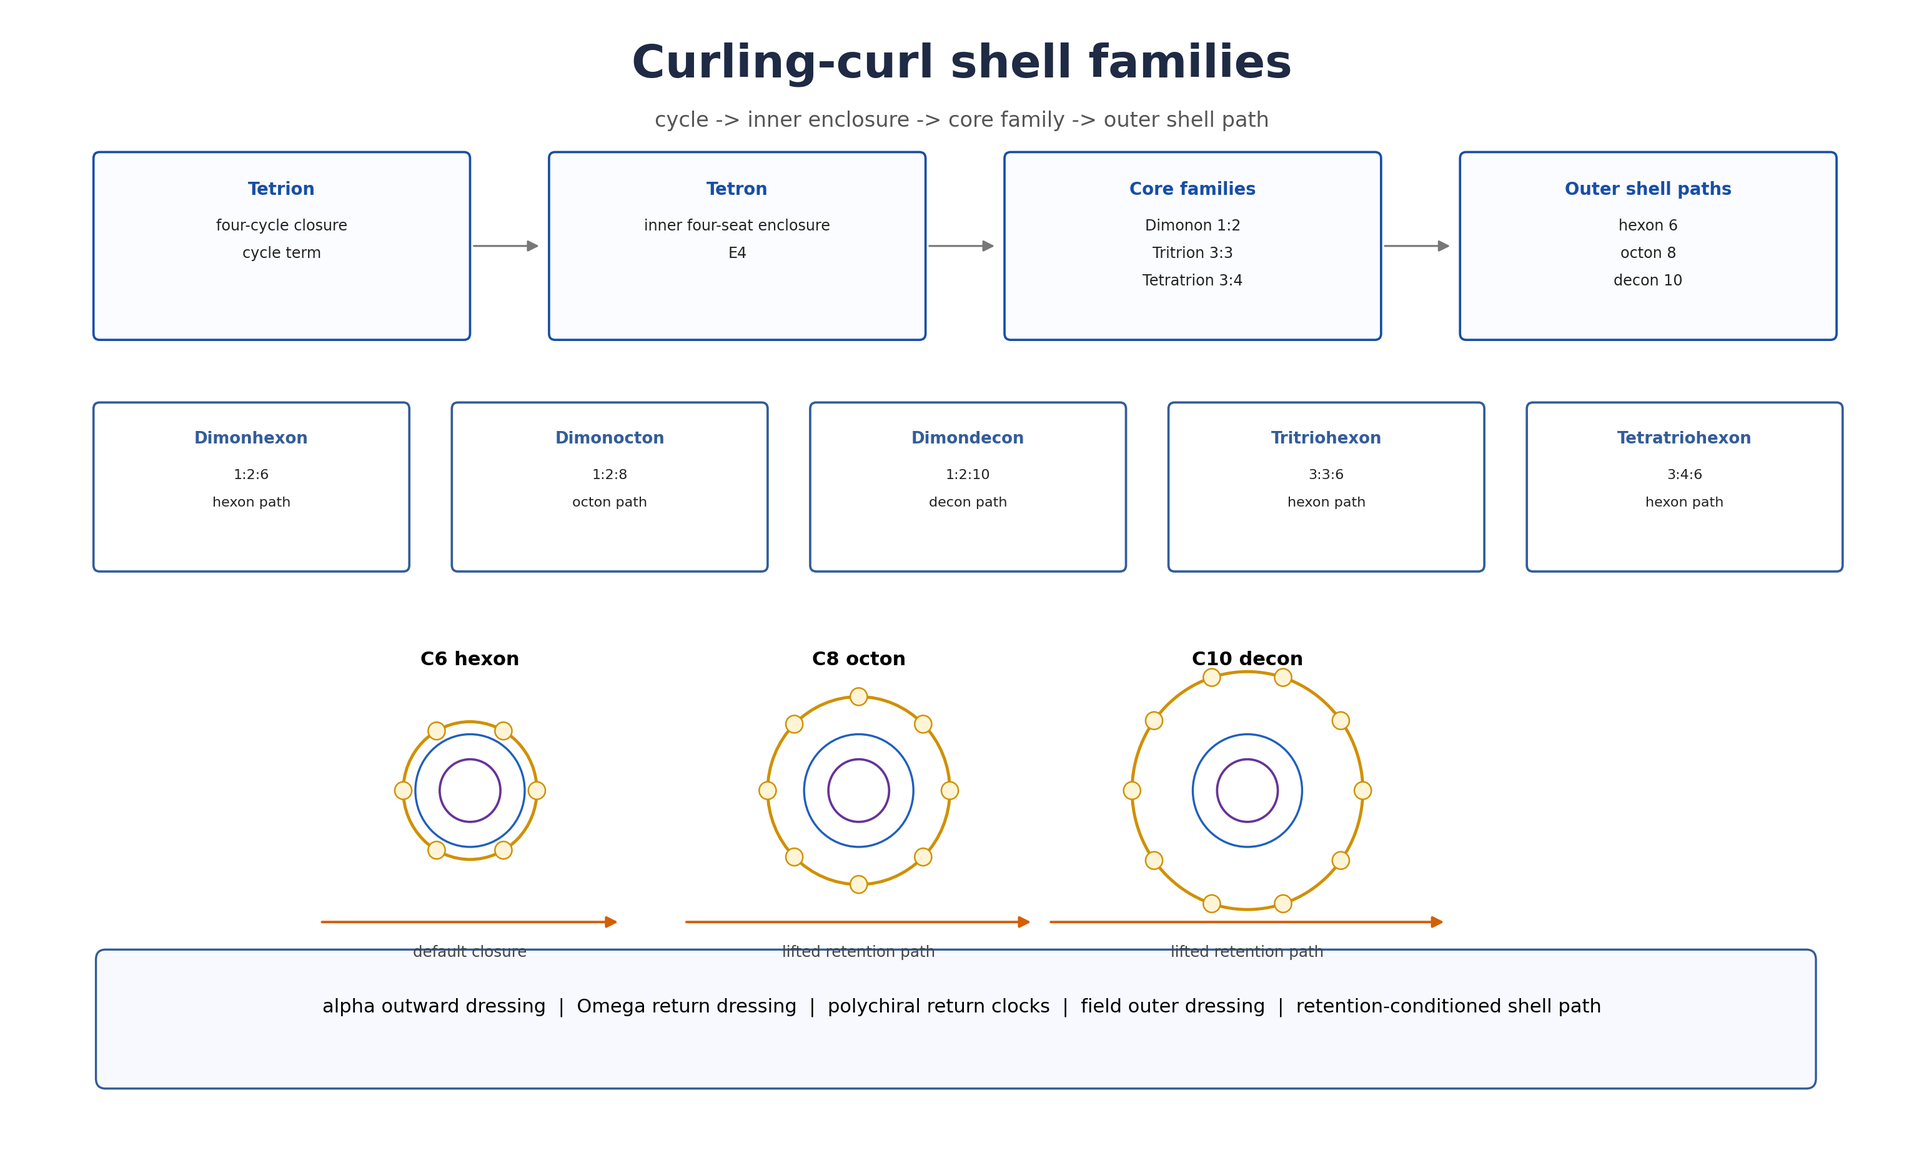
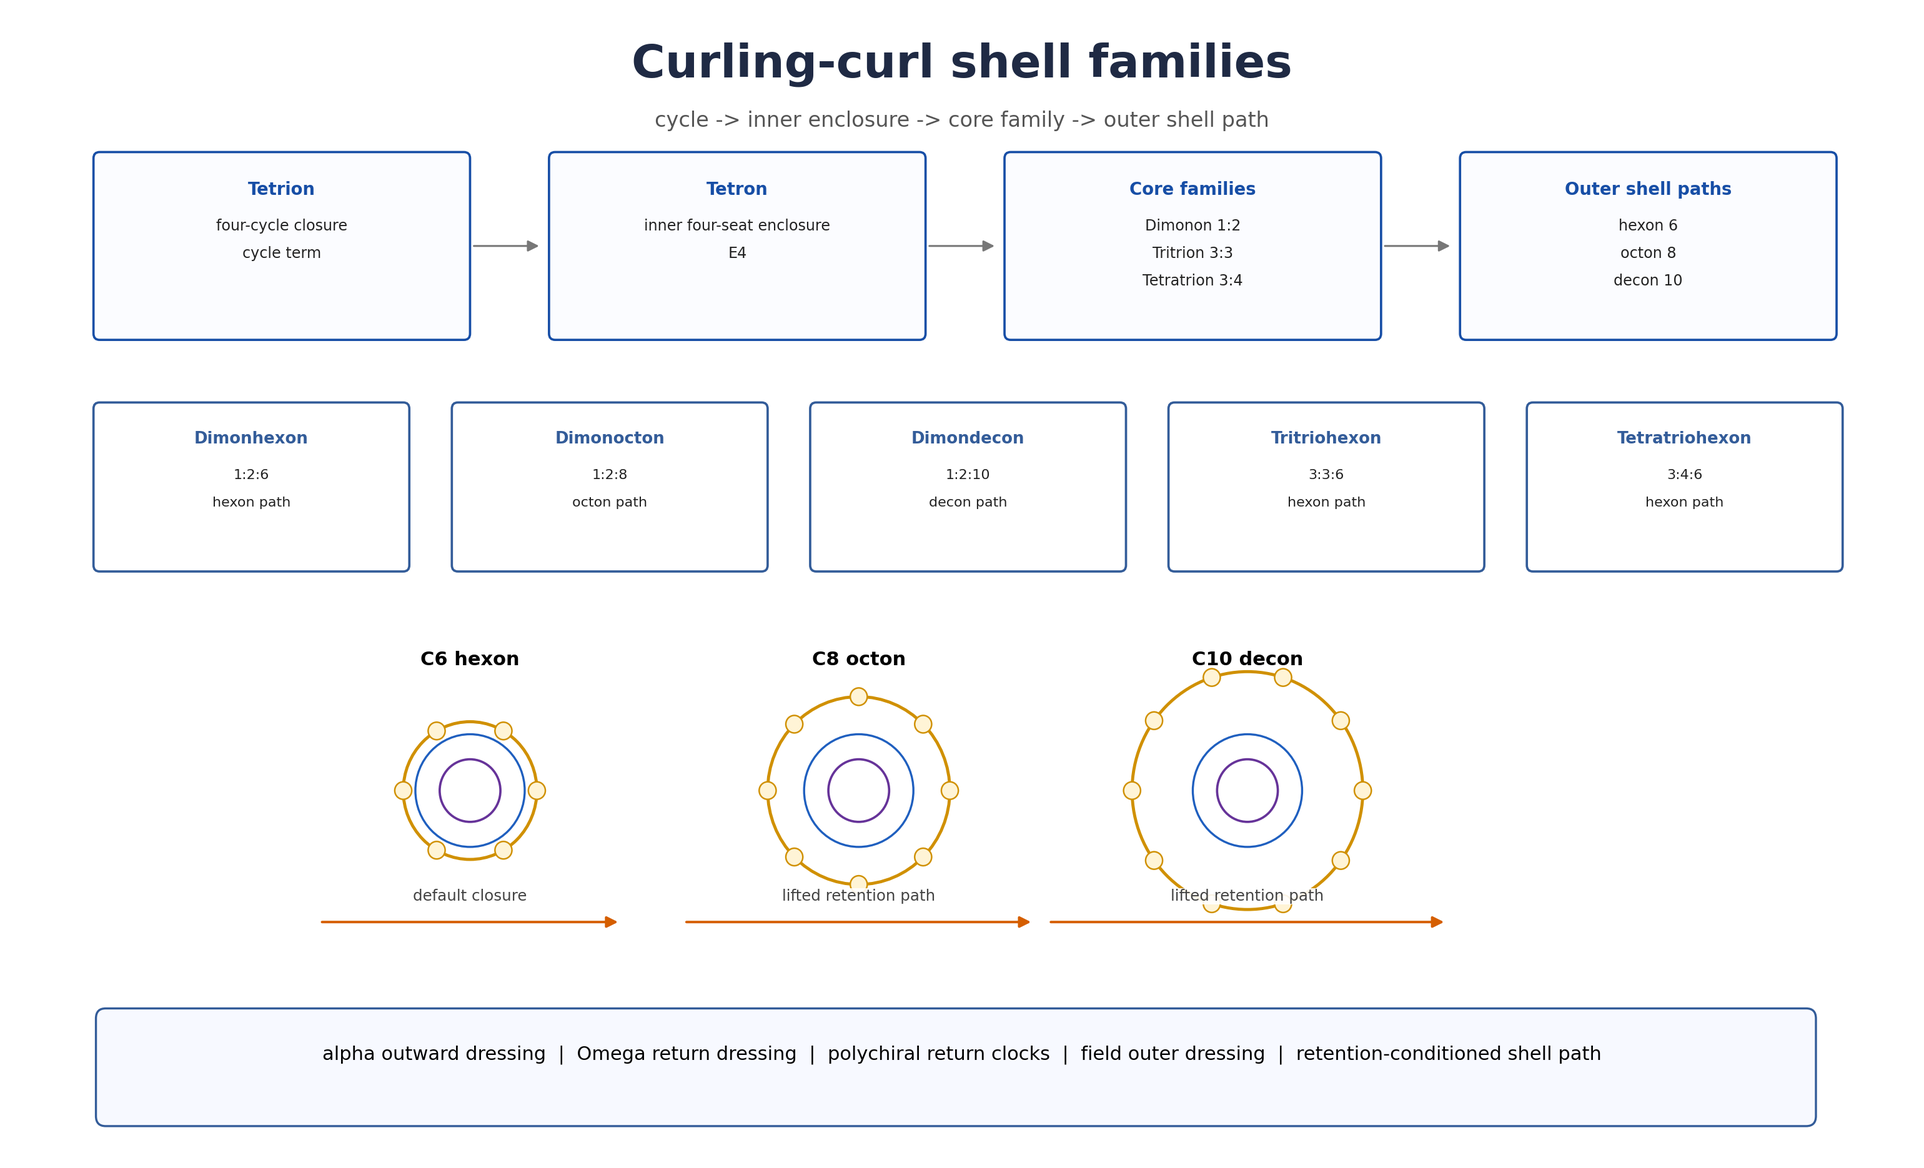
v40.01r02 (#28)

diff --git a/scripts/generate_fractal_tesseract_q4_witness.py b/scripts/generate_fractal_tesseract_q4_witness.py
@@ -1,0 +1,85 @@
+from pathlib import Path
+import matplotlib.pyplot as plt
+from matplotlib.patches import FancyBboxPatch, FancyArrowPatch, Circle
+import numpy as np
+
+ROOT = Path(__file__).resolve().parents[1]
+FIG_DIR = ROOT / "figures_jpg"
+FIG_DIR.mkdir(parents=True, exist_ok=True)
+OUT = FIG_DIR / "fractal_tesseract_q4_witness.jpg"
+
+fig, ax = plt.subplots(figsize=(14, 7.2), dpi=220)
+ax.set_xlim(0, 14)
+ax.set_ylim(0, 7.2)
+ax.axis('off')
+
+blue = '#1f4e8c'
+green = '#2f7d4a'
+orange = '#b7791f'
+purple = '#7a4cc2'
+grey = '#666666'
+dark = '#0f2b4c'
+
+ax.text(7, 6.82, 'Fractal tesseract support with finite Q4 witness', ha='center', va='center', fontsize=21, fontweight='bold', color=dark)
+ax.text(7, 6.48, 'Recursive cut gives support; duon current traverses and witnesses it.', ha='center', fontsize=10.5, color=grey)
+
+def rbox(x, y, w, h, text, ec, fc):
+    box = FancyBboxPatch((x,y),w,h,boxstyle='round,pad=0.05,rounding_size=0.08',ec=ec,fc=fc,lw=1.2)
+    ax.add_patch(box)
+    ax.text(x+w/2, y+h/2, text, ha='center', va='center', fontsize=11)
+    return box
+
+# Flow boxes
+boxes = [
+    (0.55,5.40,1.55,0.72,'Null\npotential','#555','#f5f5f5'),
+    (2.55,5.40,1.25,0.72,'x -> x\n= x',blue,'#eef7ff'),
+    (4.30,5.28,1.40,0.95,'branch /\nhinge /\nbranch',green,'#f2fbf4'),
+    (6.18,5.28,1.75,0.95,'recursive\ncut-unspooling',orange,'#fff7eb'),
+]
+for b in boxes:
+    rbox(*b)
+for (x1,y1,x2,y2) in [(2.10,5.76,2.55,5.76),(3.80,5.76,4.30,5.76),(5.70,5.76,6.18,5.76)]:
+    ax.add_patch(FancyArrowPatch((x1,y1),(x2,y2),arrowstyle='-|>',mutation_scale=14,lw=1.2,color=grey))
+
+# Q4 cube witness
+ax.text(10.0, 5.75, 'finite Q4 chart', ha='center', fontsize=14, color=purple, fontweight='bold')
+# Draw a clean cube-like Q4 witness
+front = np.array([[9.10,3.85],[10.70,3.85],[10.70,5.05],[9.10,5.05]])
+back = front + np.array([0.55,0.45])
+edges = [(0,1),(1,2),(2,3),(3,0)]
+for arr in (front, back):
+    for i,j in edges:
+        ax.plot([arr[i,0],arr[j,0]],[arr[i,1],arr[j,1]], color=purple, lw=1.2, alpha=.85)
+for i in range(4):
+    ax.plot([front[i,0],back[i,0]],[front[i,1],back[i,1]], color=purple, lw=1.2, alpha=.85)
+# middle connectors for four-edge witness feel
+extra = np.array([[9.90,4.25],[11.25,4.25],[9.90,5.45],[11.25,5.45]])
+for x,y in list(front)+list(back):
+    ax.add_patch(Circle((x,y),0.06,fc=purple,ec=purple))
+# label under cube with no crossing text
+ax.text(10.05,3.45,'local witness of fractal tesseract support',ha='center',fontsize=9,color=grey)
+# jitter group separated from cube
+ax.text(12.30,5.25,'jittering:',ha='left',fontsize=10,color=orange)
+ax.text(12.30,5.00,'unresolved successor movement',ha='left',fontsize=8.5,color=orange)
+for x,y in [(12.1,4.35),(12.7,4.05),(11.9,3.65),(12.5,3.35)]:
+    ax.text(x,y,'+',ha='center',va='center',fontsize=11,color=orange,alpha=.8)
+
+# Clean arrow and phrase below flow, no overlap with cube
+ax.add_patch(FancyArrowPatch((7.95,5.05),(9.15,4.85),arrowstyle='-|>',mutation_scale=12,lw=1.2,color=grey,connectionstyle='arc3,rad=-0.1'))
+ax.text(7.25,4.70,'branch / hinge / branch support can cut again',ha='center',fontsize=8.5,color=grey)
+
+# duon current box and path
+ax.add_patch(FancyArrowPatch((10.00,3.30),(10.85,2.72),arrowstyle='-|>',mutation_scale=18,lw=1.5,color=purple,connectionstyle='arc3,rad=-0.25'))
+rbox(10.55,2.15,2.40,0.70,'duon current\nD_i mu D_j',purple,'#f5f0ff')
+for i,x in enumerate(np.linspace(10.65,12.25,5)):
+    ax.add_patch(Circle((x,1.35),0.11,ec=purple,fc='white',lw=1.2))
+ax.add_patch(FancyArrowPatch((10.50,1.05),(12.60,1.05),arrowstyle='-|>',mutation_scale=16,lw=1.4,color=purple))
+
+# Bottom lock-in strip
+strip = FancyBboxPatch((1.0,0.35),12.0,0.48,boxstyle='round,pad=0.04,rounding_size=0.08',ec=blue,fc='#f3f8ff',lw=1.1)
+ax.add_patch(strip)
+ax.text(7,0.59,'Corrected order: recursive cut -> fractal tesseract support; duon current -> finite carried witness.',ha='center',va='center',fontsize=9.5,color=dark,fontweight='bold')
+
+fig.tight_layout(pad=0.2)
+fig.savefig(OUT, dpi=220, bbox_inches='tight')
+print(OUT)

diff --git a/scripts/generate_field_count_sadar_scope.py b/scripts/generate_field_count_sadar_scope.py
@@ -57,24 +57,24 @@ ax.text(2.50, 5.90, r'$\omega$', ha='center', fontsize=12, color=grey)
 box(4.70, 6.10, 3.40, 2.60, '2. Retained field family',
     [r'$F_B=\{F_1,\ldots,F_{n_F}\}$', r'$n_F(B)=|F_B|$'],
     blue, light_blue)
-ax.add_patch(FancyBboxPatch((5.16, 6.20), 2.55, 0.98,
+ax.add_patch(FancyBboxPatch((5.12, 6.24), 2.50, 0.88,
                             boxstyle='round,pad=0.02,rounding_size=0.18',
                             linewidth=1.4, edgecolor='#769bc4', facecolor='none'))
-for (x, y, label) in [(5.48, 6.55, '$F_1$'), (6.20, 6.95, '$F_2$'), (7.18, 6.42, '$F_3$'), (7.63, 6.91, '$F_4$')]:
-    ax.add_patch(Circle((x, y), 0.33, edgecolor=blue, facecolor='#edf3ff', linewidth=1.5))
+for (x, y, label) in [(5.45, 6.60, '$F_1$'), (6.18, 6.94, '$F_2$'), (6.98, 6.60, '$F_3$'), (7.48, 6.96, '$F_4$')]:
+    ax.add_patch(Circle((x, y), 0.26, edgecolor=blue, facecolor='#edf3ff', linewidth=1.45))
     ax.text(x, y, label, ha='center', va='center', fontsize=12, color=dark)
 
 box(9.15, 6.10, 3.85, 2.60, '3. Returned-current channels',
     [r'$ADAR_{i\leftarrow j}$', r'self terms: $i=j$', r'cross terms: $i\ne j$'],
     blue, light_blue)
-ax.add_patch(Circle((10.25, 6.52), 0.36, edgecolor=blue, facecolor='#edf3ff', linewidth=1.6))
-ax.text(10.25, 6.98, '$F_1$', ha='center', va='center', fontsize=12, color=dark)
-ax.add_patch(Circle((11.88, 6.52), 0.36, edgecolor=blue, facecolor='#edf3ff', linewidth=1.6))
-ax.text(11.88, 6.98, '$F_2$', ha='center', va='center', fontsize=12, color=dark)
-ax.add_patch(FancyArrowPatch((10.58, 6.66), (11.54, 6.66), arrowstyle='->', mutation_scale=12, linewidth=1.5, color=grey))
-ax.add_patch(FancyArrowPatch((11.54, 6.35), (10.58, 6.35), arrowstyle='->', mutation_scale=12, linewidth=1.5, color=grey))
-ax.add_patch(Arc((10.25, 6.52), 1.05, 1.05, theta1=120, theta2=320, color=grey, lw=1.3))
-ax.add_patch(Arc((11.88, 6.52), 1.05, 1.05, theta1=-60, theta2=140, color=grey, lw=1.3))
+ax.add_patch(Circle((10.25, 6.58), 0.30, edgecolor=blue, facecolor='#edf3ff', linewidth=1.6))
+ax.text(10.25, 7.00, '$F_1$', ha='center', va='center', fontsize=12, color=dark)
+ax.add_patch(Circle((11.88, 6.58), 0.30, edgecolor=blue, facecolor='#edf3ff', linewidth=1.6))
+ax.text(11.88, 7.00, '$F_2$', ha='center', va='center', fontsize=12, color=dark)
+ax.add_patch(FancyArrowPatch((10.53, 6.73), (11.58, 6.73), arrowstyle='->', mutation_scale=12, linewidth=1.5, color=grey))
+ax.add_patch(FancyArrowPatch((11.58, 6.43), (10.53, 6.43), arrowstyle='->', mutation_scale=12, linewidth=1.5, color=grey))
+ax.add_patch(Arc((10.25, 6.58), 0.86, 0.86, theta1=120, theta2=320, color=grey, lw=1.3))
+ax.add_patch(Arc((11.88, 6.58), 0.86, 0.86, theta1=-60, theta2=140, color=grey, lw=1.3))
 
 # --- Lower-row boxes.  Text is held in the upper half; drawings stay below. --
 box(0.55, 1.45, 5.35, 3.25, '4. Field-count contribution',

diff --git a/scripts/generate_null_four_edge.py b/scripts/generate_null_four_edge.py
@@ -46,26 +46,27 @@ ax.text(5.9,5.25,'2  Four-edge $x$ witness',ha='center',va='center',fontsize=12,
 ax.text(5.9,4.72,r'$\epsilon\in\{0,1\}^4$',ha='center',va='center',fontsize=15)
 center = np.array([5.9,2.85])
 # neighbors: directions
+# Keep labels outside the topology lanes so no text crosses edges or nodes.
 neighbors = {
-    r'$\epsilon\oplus e_1$': np.array([5.9,4.10]),
-    r'$\epsilon\oplus e_2$': np.array([7.05,2.85]),
-    r'$\epsilon\oplus e_3$': np.array([5.9,1.60]),
-    r'$\epsilon\oplus e_4$': np.array([4.75,2.85]),
+    r'$\epsilon\oplus e_1$': (np.array([5.9,3.92]), (0.00, 0.58), 'center'),
+    r'$\epsilon\oplus e_2$': (np.array([7.03,2.85]), (0.47, 0.02), 'left'),
+    r'$\epsilon\oplus e_3$': (np.array([5.9,1.78]), (0.00,-0.55), 'center'),
+    r'$\epsilon\oplus e_4$': (np.array([4.77,2.85]), (-0.47,0.02), 'right'),
 }
-for label, pos in neighbors.items():
+for label, (pos, offset, align) in neighbors.items():
     ax.add_patch(FancyArrowPatch(center, pos, arrowstyle='<->', mutation_scale=13, lw=1.4, color='#2d6a8e'))
-    c = Circle(pos,0.22,fc='#fff7e6',ec='#c78f2b',lw=1.2)
+    c = Circle(pos,0.21,fc='#fff7e6',ec='#c78f2b',lw=1.2)
     ax.add_patch(c)
-    ax.text(pos[0], pos[1]+0.42, label, ha='center', va='center', fontsize=9)
+    ax.text(pos[0]+offset[0], pos[1]+offset[1], label, ha=align, va='center', fontsize=8.3)
 # center vertex
 c0 = Circle(center,0.34,fc='#eaf8ef',ec='#2f7d4f',lw=1.6)
 ax.add_patch(c0)
 ax.text(center[0],center[1],r'$x_\epsilon$',ha='center',va='center',fontsize=14)
 # Edge labels
-ax.text(5.55,3.53,r'$a_1$',fontsize=9,color='#2d6a8e')
-ax.text(6.55,3.02,r'$a_2$',fontsize=9,color='#2d6a8e')
-ax.text(5.55,2.10,r'$a_3$',fontsize=9,color='#2d6a8e')
-ax.text(5.08,3.02,r'$a_4$',fontsize=9,color='#2d6a8e')
+ax.text(5.55,3.39,r'$a_1$',fontsize=9,color='#2d6a8e')
+ax.text(6.45,3.06,r'$a_2$',fontsize=9,color='#2d6a8e')
+ax.text(5.55,2.23,r'$a_3$',fontsize=9,color='#2d6a8e')
+ax.text(5.18,3.06,r'$a_4$',fontsize=9,color='#2d6a8e')
 ax.text(5.9,0.98,r'$\deg_{Q_4}(x_\epsilon)=4$',ha='center',va='center',fontsize=14)
 
 # Arrow to panel 3

diff --git a/manual/sections/09_prediction_test_fixture_registry.tex b/manual/sections/09_prediction_test_fixture_registry.tex
@@ -29,7 +29,7 @@ B / $B_s$ / $B_c$ & O0 & measured target rows & $\nu_{\AO},E_{\mathrm{ext}}$ for
 Boundary current & D0 & declared boundary/current fields & $\Phi,J,P^D,\mathbf A_F$ & substitution table\\
 Field tunnelling hinge-slide fixture & D0 & integer fixture fields & $\operatorname{adm}(e_0;B|t)=0$, slide kernel, $\rho^D_\omega$, $T^D_{\mathrm{tunnel}}$ & D.E.C. ledger table\\
 3D Brownian phase-cycle fixture & G3/D0 & 3D coordinate track fields & $z_i\in\mathbb Z^3$, $\Delta z_i^{(n)}$, $Q_i^{(n)}$, phase counts, octant counts, $\delta_3$ & 3D coordinate phase-cycle CSVs (Brownian application aliases), integer-ratio audit, and App.~\ref{manual:app:coordinate-phase-cycle-delta3}\\
-Run-tumble tracer-current fixture & G3/D0 audit & mode $m_t$, selected channel $j_t$, sign $\sigma_t$, accumulated trace $h_t\in\mathbb Z^4$, projection $\pi_3(h_t)\in\mathbb Z^3$, $Q^2_{3D}$, $Q^2_4$, phase counts, octant counts, $\delta_3$ & run-tumble trace CSV, phase-cycle $\delta_3$, octant $\delta_3$, integer-ratio audit, generated trace table, and App.~\ref{manual:app:coordinate-phase-cycle-delta3}\\
+Run-tumble tracer-current fixture & G3/D0 & mode $m_t$, selected channel $j_t$, sign $\sigma_t$, accumulated trace $h_t\in\mathbb Z^4$, projection $\pi_3(h_t)\in\mathbb Z^3$, $Q^2_{3D}$, $Q^2_4$, phase counts, octant counts, $\delta_3$ & $h_t=h_{t-1}+\sigma_t\mathbf e_{j_t}$, $z_t=\pi_3(h_t)$, $Q^2_{3D}$ and $Q^2_4$ audit calculations, phase-cycle and octant $\delta_3$ tallies & run-tumble trace CSV, phase-cycle $\delta_3$, octant $\delta_3$, integer-ratio audit, generated trace table, and App.~\ref{manual:app:coordinate-phase-cycle-delta3}\\
 Mercury perihelion & O0 & observable-map target rows & observable-map value, target, error & solar table\\
 Solar light bending & O0 & observable-map target rows & observable-map value, target, error & solar table\\
 Solar redshift & O0 & observable-map target rows & observable-map value, target, error & solar table\\

diff --git a/scripts/build_release_bundle.py b/scripts/build_release_bundle.py
@@ -97,14 +97,15 @@ def copy_item(src: Path, dst: Path) -> None:
                 shutil.copy2(p, target)
 
 
-def build_source_tree(stage_root: Path) -> list[Path]:
-    source_root = stage_root / "AOD_Temporal_Dynamics_source"
+def build_source_tree(stage_root: Path) -> Path:
+    """Build a flat source tree whose contents unzip directly into a repo root."""
+    source_root = stage_root / "source_root"
     source_root.mkdir(parents=True, exist_ok=True)
     for name in INCLUDE_TOP_LEVEL:
         src = ROOT / name
         if src.exists():
             copy_item(src, source_root / name)
-    return sorted([p for p in source_root.rglob("*") if p.is_file()])
+    return source_root
 
 
 
@@ -130,10 +131,16 @@ def validate_zenodo_metadata(version: str) -> None:
 
 
 def zip_dir(src_dir: Path, zip_path: Path) -> None:
+    """Zip the *contents* of src_dir, not src_dir itself.
+
+    The source archive is intentionally flat: unzipping source.zip into a
+    repository checkout writes files directly into that checkout instead of
+    creating an extra wrapper directory.
+    """
     with zipfile.ZipFile(zip_path, "w", compression=zipfile.ZIP_DEFLATED) as zf:
         for p in sorted(src_dir.rglob("*")):
             if p.is_file():
-                zf.write(p, p.relative_to(src_dir.parent).as_posix())
+                zf.write(p, p.relative_to(src_dir).as_posix())
 
 
 def write_sha_manifest(path: Path, files: list[Path], base: Path | None = None) -> None:
@@ -191,9 +198,9 @@ def main() -> int:
 
     with tempfile.TemporaryDirectory() as tmp:
         stage = Path(tmp)
-        source_files = build_source_tree(stage)
+        source_root = build_source_tree(stage)
         source_zip = outdir / "source.zip"
-        zip_dir(stage / "AOD_Temporal_Dynamics_source", source_zip)
+        zip_dir(source_root, source_zip)
 
 
     # Bundle uses stable internal names so downstream tools do not depend on the version.

diff --git a/scripts/generate_curl_support_figures.py b/scripts/generate_curl_support_figures.py
@@ -156,11 +156,11 @@ for idx,(label,n,radius) in enumerate(path_specs):
         ax.add_patch(Circle((cx+radius*np.cos(ang), cy+radius*np.sin(ang)),0.07,fill=True,edgecolor='#d09000',facecolor='#fff4d6',lw=0.8))
     # ttl arrow path
     arrow(ax,cx-radius-0.7,cy-1.05,cx+radius+0.7,cy-1.05,'#d55e00',1.3,12)
-    ax.text(cx,cy-1.33,'lifted retention path' if n>6 else 'default closure',ha='center',fontsize=8,color='#444')
+    ax.text(cx,cy-0.88,'lifted retention path' if n>6 else 'default closure',ha='center',fontsize=8,color='#444', bbox=dict(facecolor='white', edgecolor='none', pad=0.4, alpha=0.9))
 # legend strip
-strip=FancyBboxPatch((0.7,0.55),14.0,0.95,boxstyle='round,pad=0.08',linewidth=1.1,edgecolor='#335c99',facecolor='#f7f9ff')
+strip=FancyBboxPatch((0.7,0.25),14.0,0.78,boxstyle='round,pad=0.08',linewidth=1.1,edgecolor='#335c99',facecolor='#f7f9ff')
 ax.add_patch(strip)
-ax.text(7.75,1.08,'alpha outward dressing  |  Omega return dressing  |  polychiral return clocks  |  field outer dressing  |  retention-conditioned shell path',ha='center',fontsize=10)
+ax.text(7.75,0.70,'alpha outward dressing  |  Omega return dressing  |  polychiral return clocks  |  field outer dressing  |  retention-conditioned shell path',ha='center',fontsize=10)
 fig.tight_layout()
 fig.savefig(FIG_DIR / 'curling_curl_layers.png', dpi=220)
 plt.close(fig)

diff --git a/tests/test_main_figure_layout_sources.py b/tests/test_main_figure_layout_sources.py
@@ -1,0 +1,30 @@
+from pathlib import Path
+
+ROOT = Path(__file__).resolve().parents[1]
+
+def read(rel):
+    return (ROOT / rel).read_text(encoding="utf-8")
+
+def test_null_four_edge_labels_are_offset_from_topology():
+    script = read("scripts/generate_null_four_edge.py")
+    assert "Keep labels outside the topology lanes" in script
+    assert "(0.00,-0.55)" in script
+    assert "(-0.47,0.02)" in script
+    assert "fontsize=8.3" in script
+
+def test_fractal_tesseract_figure_regenerator_exists():
+    script = ROOT / "scripts" / "generate_fractal_tesseract_q4_witness.py"
+    assert script.exists()
+    text = script.read_text(encoding="utf-8")
+    assert "fractal_tesseract_q4_witness.jpg" in text
+    assert "branch / hinge / branch support can cut again" in text
+    assert "local witness of fractal tesseract support" in text
+
+def test_field_count_figure_uses_smaller_topology_nodes():
+    script = read("scripts/generate_field_count_sadar_scope.py")
+    assert "0.26, edgecolor=blue" in script
+    assert "0.86, 0.86" in script
+
+def test_curling_curl_arrow_labels_have_white_backing():
+    script = read("scripts/generate_curl_support_figures.py")
+    assert "bbox=dict(facecolor='white'" in script

diff --git a/tests/test_zenodo_assets_metadata.py b/tests/test_zenodo_assets_metadata.py
@@ -1,0 +1,21 @@
+from pathlib import Path
+import json
+
+ROOT = Path(__file__).resolve().parents[1]
+
+def test_zenodo_notes_name_stable_assets_and_default_main():
+    z = json.loads((ROOT / ".zenodo.json").read_text(encoding="utf-8"))
+    notes = z.get("notes", "")
+    assert "Primary display artifact: main.pdf" in notes
+    assert "Manual reference implementation artifact: manual.pdf" in notes
+    for name in ["main.pdf", "manual.pdf", "source.zip", "bundle.zip", "tests.txt", "patch_summary.txt", "BUNDLE_CONTENTS_SHA256.txt", "SHA256.txt"]:
+        assert name in notes
+    assert "AOD_Temporal_Dynamics_v" not in notes
+
+def test_readme_names_stable_assets_and_latest_links():
+    readme = (ROOT / "README.md").read_text(encoding="utf-8")
+    assert "## Zenodo file assets" in readme
+    assert "primary display artifact is `main.pdf`" in readme
+    assert "manual.pdf" in readme
+    assert "https://doi.org/10.5281/zenodo.20486270/files/manual.pdf?download=1" in readme
+    assert "AOD_Temporal_Dynamics_v" not in readme.split("## Zenodo file assets", 1)[1].split("##",1)[0]

diff --git a/appendices/H_combinatorics_rd_tests.tex b/appendices/H_combinatorics_rd_tests.tex
@@ -145,9 +145,8 @@ X_{\mathrm{shedding}}=3.
 \]
 
 
-\aodliteraturenote{Dyck/Catalan path combinatorics: Stanley~\cite{stanleyCatalan}, Flajolet--Sedgewick~\cite{flajoletSedgewick}.}
-
-\aodliteraturenote{Markov kernels and random walks: Norris~\cite{norrisMarkov}, Levin--Peres--Wilmer~\cite{levinPeresWilmer}, Lawler--Limic~\cite{lawlerLimic}.}
+\aodliteraturenote{Dyck/Catalan path combinatorics: Stanley~\cite{stanleyCatalan}, Flajolet--Sedgewick~\cite{flajoletSedgewick}.\\
+Markov kernels and random walks: Norris~\cite{norrisMarkov}, Levin--Peres--Wilmer~\cite{levinPeresWilmer}, Lawler--Limic~\cite{lawlerLimic}.}
 
 \aodremark{The cited combinatorics is introduced at the first \(Q_4\) / Hamming--1 derivation in \secref{subsec:q4-hamming-ternary-kernel}. This App uses that support to state A\(\Omega\)D's retained edge-shell term \(+q\) and branch/hinge/branch reflected-return closure \(\Pi^-+H_\mu+\Pi^+\). The ternary hinge fibre is carried on the finite tesseract witness; it is not identical with the tesseract support.}
 

diff --git a/tests/test_release_naming_hygiene.py b/tests/test_release_naming_hygiene.py
@@ -702,7 +702,8 @@ def test_build_ci_and_release_bundle_script_present():
     assert "scripts/build_release_bundle.py" in wtext
     assert "pytest -q" in wtext
     assert "CANONICAL_VERSION.txt" in stext
-    assert "AOD_Temporal_Dynamics_source" in stext
+    assert "AOD_Temporal_Dynamics_source" not in stext
+    assert "source_root" in stext
     assert "source.zip" in stext and "bundle.zip" in stext
 
 
@@ -881,3 +882,10 @@ def test_readme_contains_zenodo_description_and_version_neutral_build_notes():
 def test_readme_has_single_versioned_names_sentence():
     readme = (ROOT / "README.md").read_text()
     assert readme.count("Generated release artifact names are stable") == 1
+
+
+def test_build_source_zip_is_flat_repo_root_archive():
+    script = (ROOT / "scripts" / "build_release_bundle.py").read_text()
+    assert "repository checkout" in script
+    assert "p.relative_to(src_dir).as_posix()" in script
+    assert "AOD_Temporal_Dynamics_source" not in script

diff --git a/tests/test_bib_preamble_source_structure.py b/tests/test_bib_preamble_source_structure.py
@@ -58,3 +58,12 @@ def test_no_inline_bibliography_in_main_tex_files():
     assert r"\begin{thebibliography}" not in read("manual/main.tex")
     assert r"\bibitem" not in read("main.tex")
     assert r"\bibitem" not in read("manual/main.tex")
+
+
+def test_h6_literature_note_is_single_block():
+    text = read("appendices/H_combinatorics_rd_tests.tex")
+    assert text.count(r"\aodliteraturenote{Dyck/Catalan path combinatorics") == 1
+    assert "Dyck/Catalan path combinatorics" in text
+    assert "Markov kernels and random walks" in text
+    segment = text.split(r"\aodliteraturenote{Dyck/Catalan path combinatorics", 1)[1].split(r"\aodremark", 1)[0]
+    assert r"\aodliteraturenote{Markov kernels and random walks" not in segment

diff --git a/tests/test_manual_run_tumble_tracer_current.py b/tests/test_manual_run_tumble_tracer_current.py
@@ -134,3 +134,9 @@ def test_main_note_unchanged_by_run_tumble():
     text = main_text().lower()
     assert "run-tumble" not in text
     assert "run tumble" not in text
+
+
+def test_run_tumble_registry_class_exact():
+    reg = read("manual/sections/09_prediction_test_fixture_registry.tex")
+    assert "Run-tumble tracer-current fixture & G3/D0 &" in reg
+    assert "G3/D0 audit" not in reg
